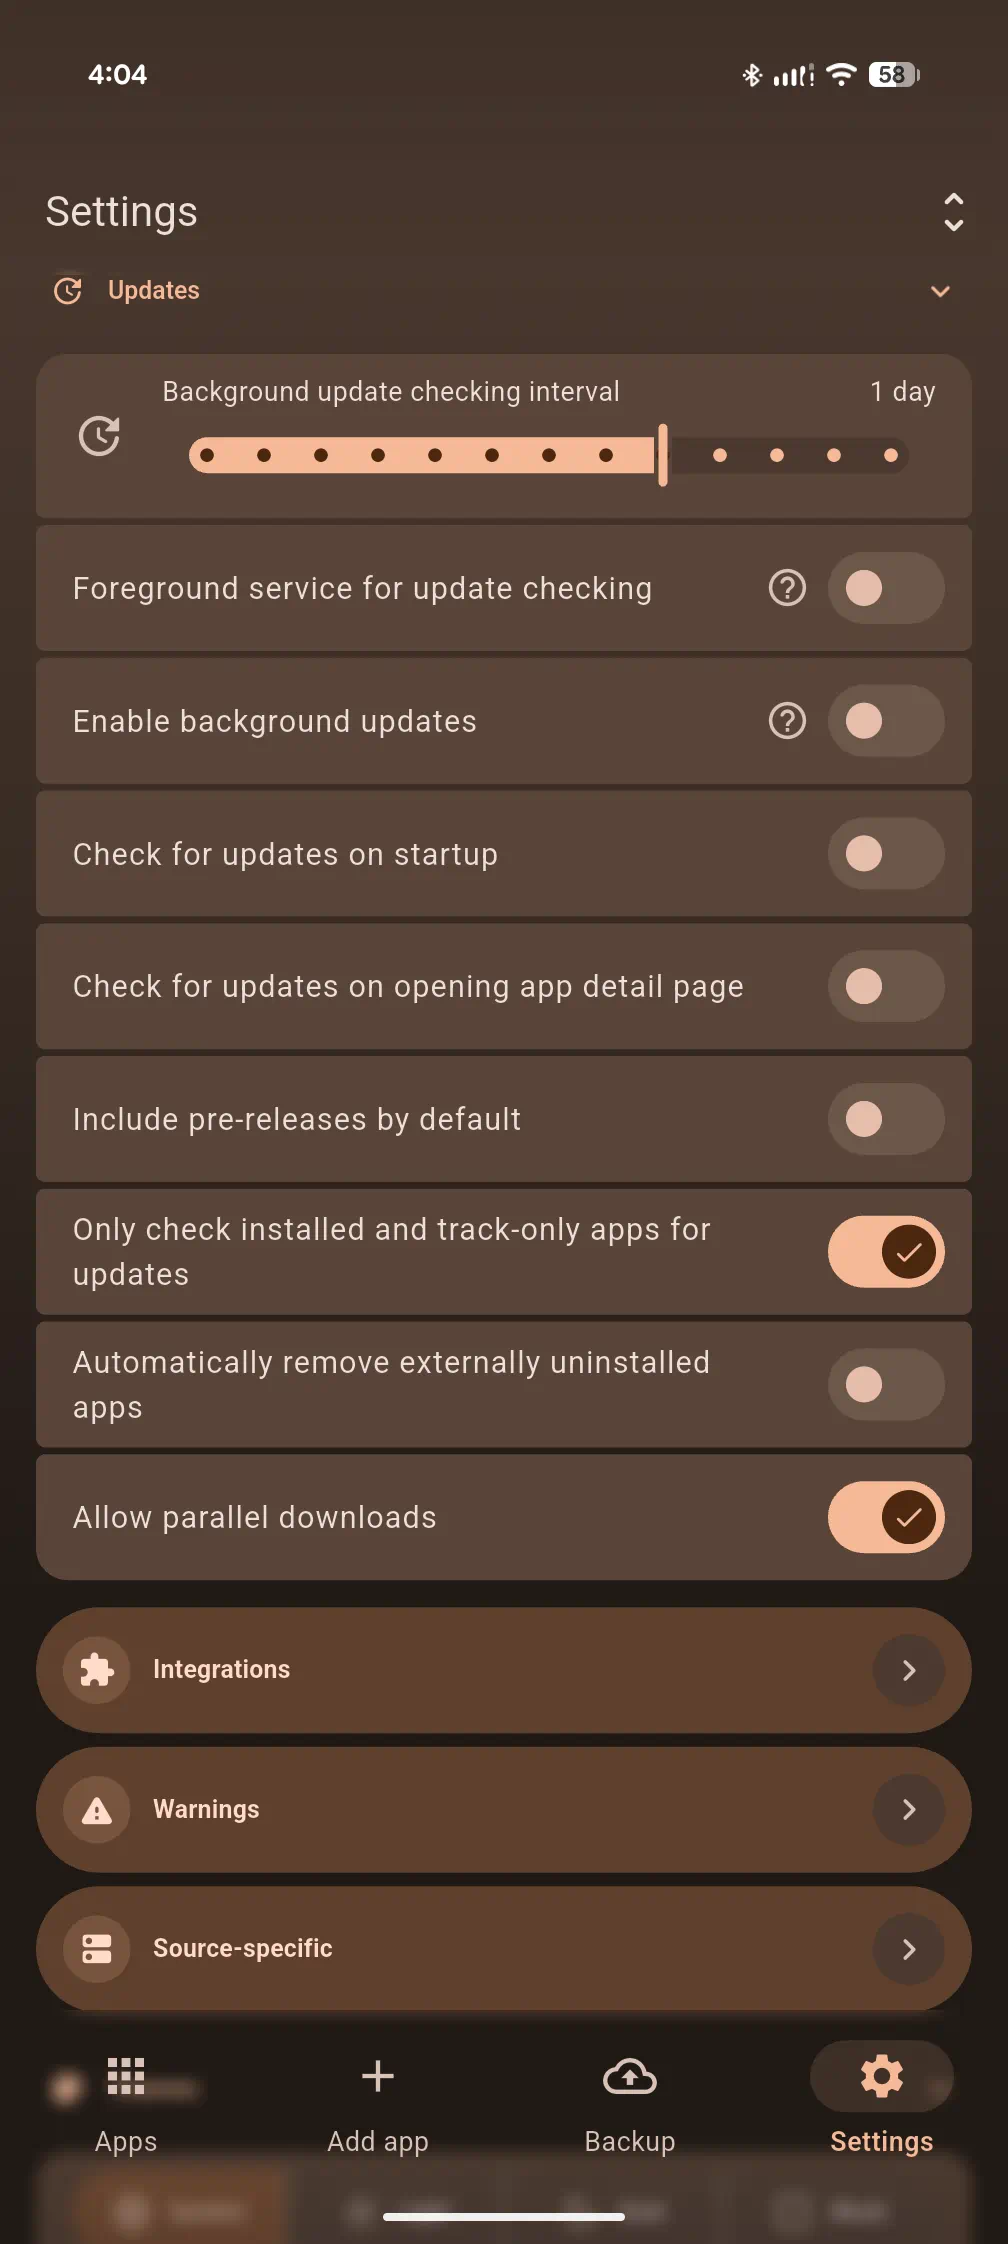
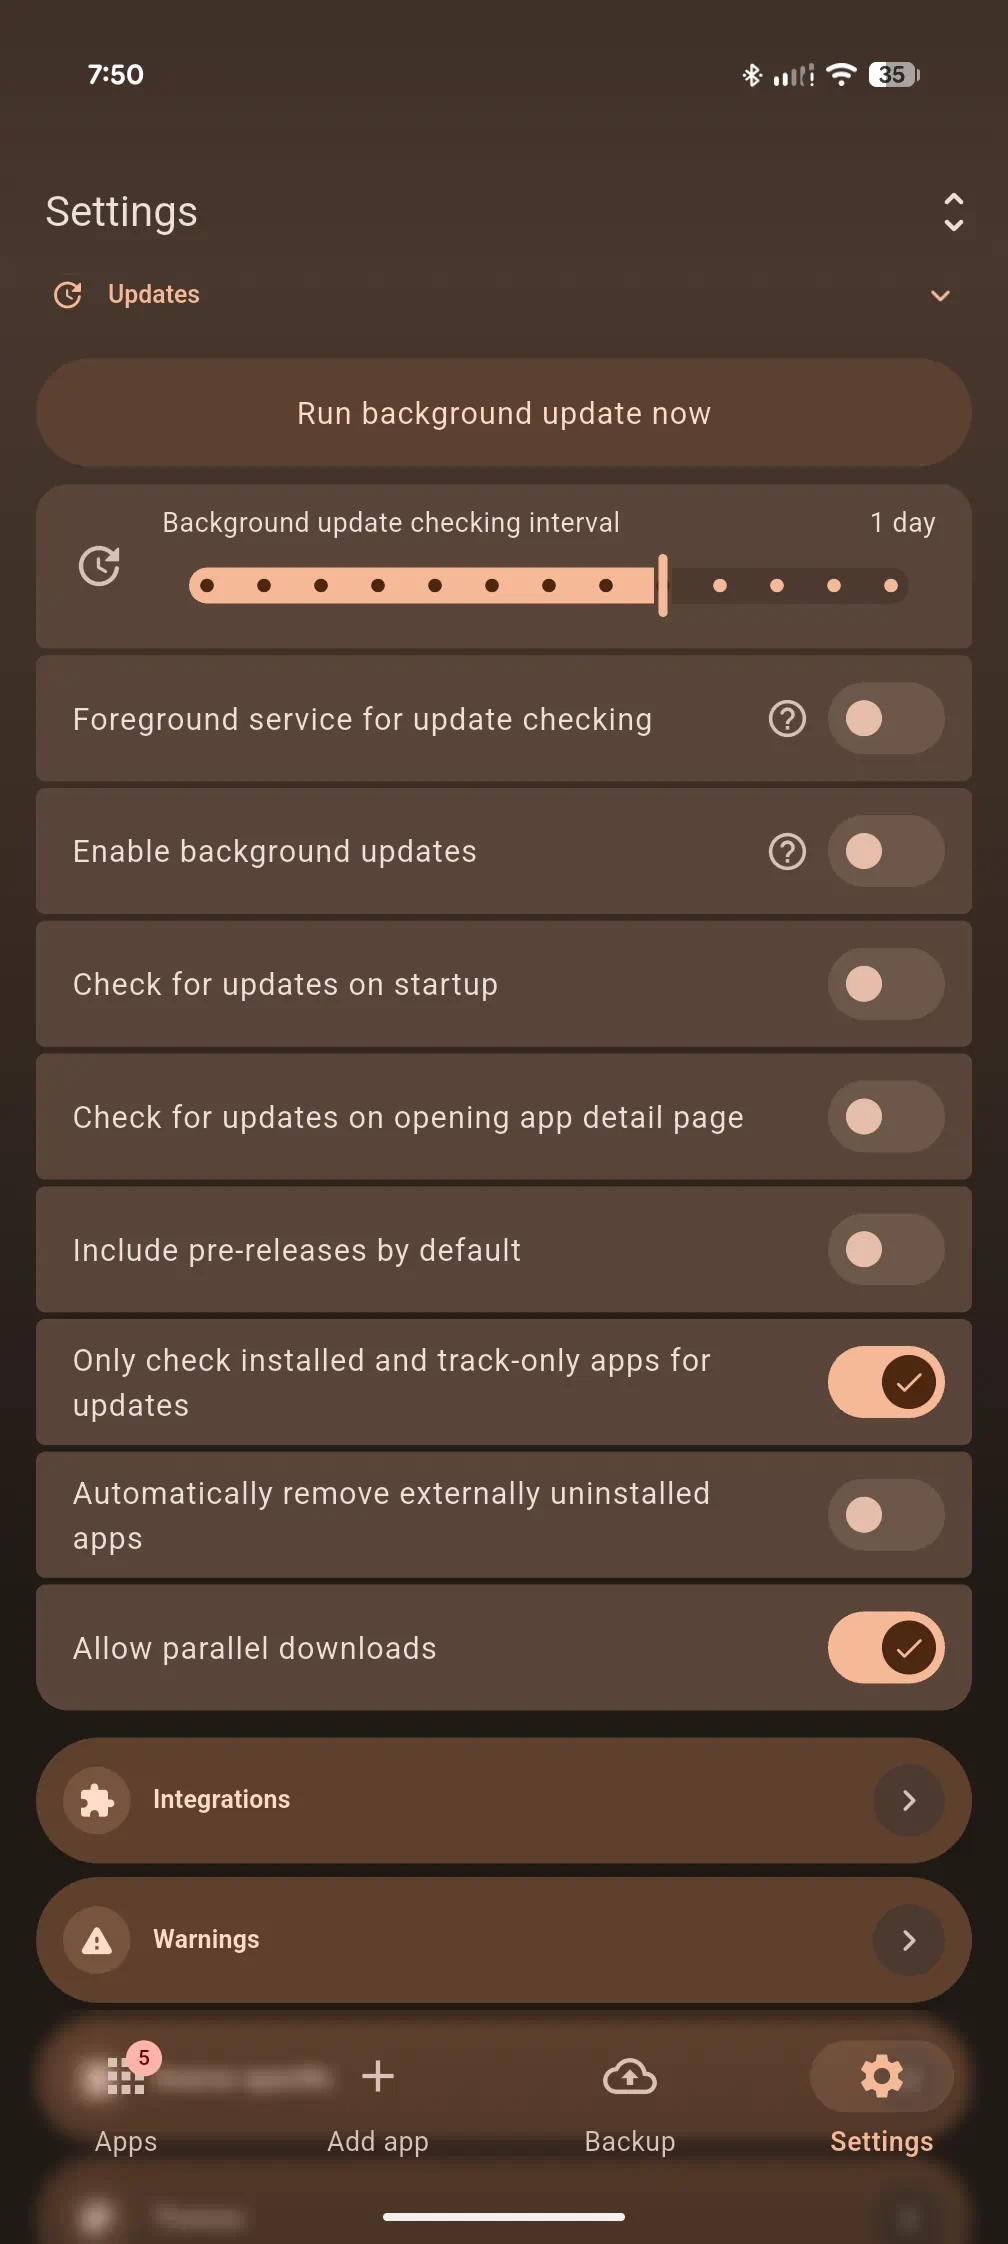
Update dependencies, enhance background update functionality, and improve translations
- Upgraded sqlite3 package from version 3.4.0 to 3.5.0.
- Added a manual trigger button for background updates in the settings section, allowing users to initiate a full background update check.
- Improved the translation for background update requirements to provide clearer instructions.
- Updated several screenshot assets to reflect recent UI changes.
- Cleaned up code formatting in various provider files for consistency.

diff --git a/lib/pages/settings.dart b/lib/pages/settings.dart
@@ -1044,11 +1044,22 @@ class _UpdatesSection extends StatelessWidget {
     context.select<SettingsProvider, int>(_updateSettingsHash);
     final SettingsProvider sp = context.read<SettingsProvider>();
 
-    return FutureBuilder<AndroidDeviceInfo>(
-      future: androidInfo,
-      builder: (context, snapshot) {
-        return _buildSettingsCardContent(context, sp, cs, snapshot);
-      },
+    return Column(
+      crossAxisAlignment: CrossAxisAlignment.stretch,
+      children: <Widget>[
+        // First item in the Updates section, deliberately NOT inside the
+        // settings card: a manual trigger for the full background update
+        // worker (check → download → install-if-enabled → notify, across all
+        // eligible apps), as opposed to pull-to-refresh's foreground check of
+        // only the currently visible list.
+        const _RunBgUpdateCheckNowButton(),
+        FutureBuilder<AndroidDeviceInfo>(
+          future: androidInfo,
+          builder: (context, snapshot) {
+            return _buildSettingsCardContent(context, sp, cs, snapshot);
+          },
+        ),
+      ],
     );
   }
 
@@ -1155,6 +1166,82 @@ class _UpdatesSection extends StatelessWidget {
       ),
     ]);
     return M3eExpressiveSettingsCard(colorScheme: cs, items: rows);
+  }
+}
+
+/// Manual trigger for the background update check, shown as the first item in
+/// the Updates section (intentionally outside the settings card). Unlike
+/// pull-to-refresh — a foreground check of the currently visible list — this
+/// runs the actual background worker: check → download → install (when
+/// enabled) → notifications, across all eligible apps ([forceAll]).
+class _RunBgUpdateCheckNowButton extends StatefulWidget {
+  const _RunBgUpdateCheckNowButton();
+
+  @override
+  State<_RunBgUpdateCheckNowButton> createState() =>
+      _RunBgUpdateCheckNowButtonState();
+}
+
+class _RunBgUpdateCheckNowButtonState
+    extends State<_RunBgUpdateCheckNowButton> {
+  bool _isRunning = false;
+
+  Future<void> _trigger() async {
+    if (_isRunning) return;
+    setState(() => _isRunning = true);
+    // Read the provider before the async gap so we don't touch context after.
+    final LogsProvider logs = context.read<LogsProvider>();
+    await logs.add(
+      'Manual background update check triggered from settings',
+      level: LogLevel.info,
+    );
+    try {
+      final String taskId = 'manual_${DateTime.now().millisecondsSinceEpoch}';
+      await bgUpdateCheck(taskId, null, forceAll: true);
+      await logs.add(
+        'Manual background update check completed',
+        level: LogLevel.info,
+      );
+    } catch (e) {
+      unawaited(
+        logs.add(
+          'Manual background update check failed: $e',
+          level: LogLevel.error,
+        ),
+      );
+    } finally {
+      if (mounted) setState(() => _isRunning = false);
+    }
+  }
+
+  @override
+  Widget build(BuildContext context) {
+    return Padding(
+      // No horizontal inset: match the full width of the settings-card rows
+      // below (they stretch edge-to-edge in the same Column). Only a small
+      // bottom gap separates this action from the toggle group.
+      padding: const EdgeInsets.only(bottom: 8),
+      child: SizedBox(
+        width: double.infinity,
+        child: FilledButton.tonal(
+          onPressed: _isRunning ? null : _trigger,
+          // Match the row titles below (ListTile default = bodyLarge, ~16sp),
+          // which are larger than the button's default labelLarge (~14sp).
+          // Only textStyle is overridden; pill shape and tonal colors still
+          // come from the theme's filledButtonTheme.
+          style: FilledButton.styleFrom(
+            textStyle: Theme.of(context).textTheme.bodyLarge,
+          ),
+          child: _isRunning
+              ? const SizedBox(
+                  width: 20,
+                  height: 20,
+                  child: CircularProgressIndicator(strokeWidth: 2),
+                )
+              : Text(tr('runBgCheckNow')),
+        ),
+      ),
+    );
   }
 }
 

diff --git a/test/source_provider_test.dart b/test/source_provider_test.dart
@@ -11,6 +11,7 @@ import 'package:obtainium/app_sources/izzyondroid.dart';
 import 'package:obtainium/providers/source_provider.dart';
 import 'package:http/http.dart';
 import 'package:shared_preferences/shared_preferences.dart';
+import 'package:sqflite_common_ffi/sqflite_ffi.dart';
 
 /// Stub source that returns a controllable [APKDetails] from
 /// [getLatestAPKDetails] without doing any network or HTML work.
@@ -323,8 +324,7 @@ Response _fdroidVerificationResponse({required bool verified}) {
           'versionCode': 31,
           'versionName': '1.9.11',
         },
-        'url':
-            'https://f-droid.org/repo/app.pwhs.universalinstaller_31.apk',
+        'url': 'https://f-droid.org/repo/app.pwhs.universalinstaller_31.apk',
         'verified': verified,
       },
     }),
@@ -398,6 +398,11 @@ class _FakeAndroidDeviceInfoPlatform extends DeviceInfoPlatform {
 
 void main() {
   TestWidgetsFlutterBinding.ensureInitialized();
+  // The F-Droid reproducible-build error path logs via LogsProvider, which
+  // opens a sqflite DB. Initialize the ffi factory so that best-effort write
+  // succeeds in the test VM instead of throwing (matches version_order_test).
+  sqfliteFfiInit();
+  databaseFactory = databaseFactoryFfi;
   DeviceInfoPlatform.instance = _FakeAndroidDeviceInfoPlatform();
 
   setUp(() {

diff --git a/lib/providers/apps_provider_updates.dart b/lib/providers/apps_provider_updates.dart
@@ -504,8 +504,7 @@ App? mergeFetchedUpdateWithLiveState({
     rawReleaseTitlesFromSource: fetchedApp.rawReleaseTitlesFromSource,
     latestIsReproducible: fetchedApp.latestIsReproducible,
     latestReproducibleStatus: fetchedApp.latestReproducibleStatus,
-    latestReproducibleVersionCode:
-        fetchedApp.latestReproducibleVersionCode,
+    latestReproducibleVersionCode: fetchedApp.latestReproducibleVersionCode,
     latestAttestationStatus: fetchedApp.latestAttestationStatus,
     latestMalwareScanStatus: malwareScanStillMatchesRelease
         ? liveApp.latestMalwareScanStatus

diff --git a/lib/providers/source_provider.dart b/lib/providers/source_provider.dart
@@ -539,8 +539,7 @@ class App {
       latestReproducibleStatus: latestReproducibleStatus == _sentinel
           ? this.latestReproducibleStatus
           : latestReproducibleStatus as String?,
-      latestReproducibleVersionCode:
-          latestReproducibleVersionCode == _sentinel
+      latestReproducibleVersionCode: latestReproducibleVersionCode == _sentinel
           ? this.latestReproducibleVersionCode
           : latestReproducibleVersionCode as int?,
       latestAttestationStatus: latestAttestationStatus == _sentinel
